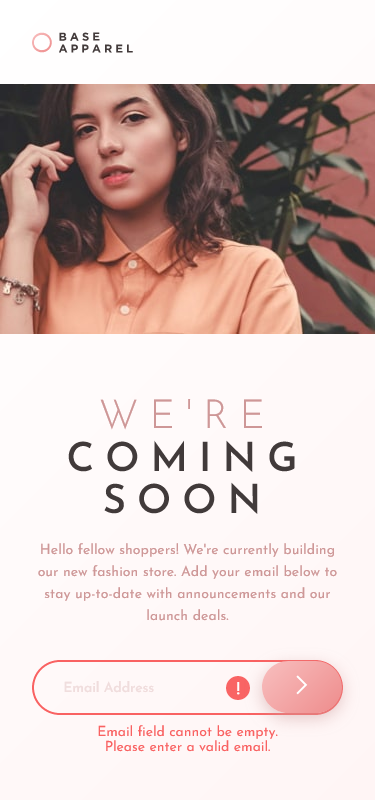
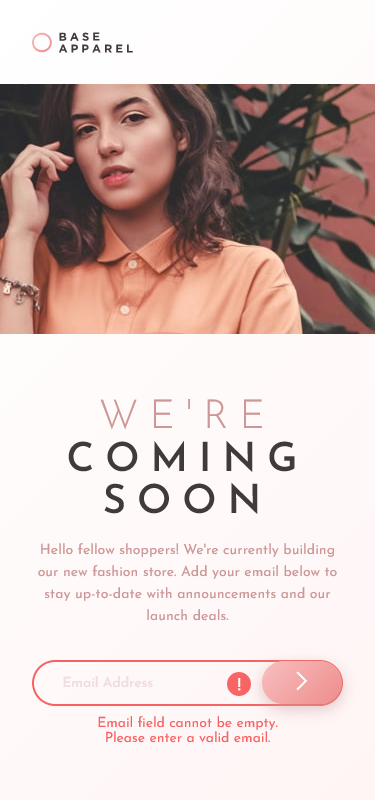
Update Base Apparel landing page

Changed region(s): [[0.088, 0.8125, 0.9387, 0.9375], [0.704, 0.8125, 0.7333, 0.8438]]

diff --git a/baseapparelcomingsoon/stylesheet.css b/baseapparelcomingsoon/stylesheet.css
@@ -254,12 +254,12 @@ h2.content__title > span {
 
 .main__signup {
   height: 66px;
+  position: relative;
 }
 
 .signup {
   border: 1.8px solid var(--clr-red-desatlight);
   border-radius: 2em;
-  position: relative;
 }
 
 .signup,
@@ -293,8 +293,8 @@ h2.content__title > span {
   cursor: pointer;
   position: absolute;
   right: -0.5px;
-  top: -1px;
-  height: 102%;
+  top: 0.5px;
+  height: 46px;
   width: 80px;
   border-radius: 2em;
   background: var(--bkg-btn);
@@ -303,11 +303,16 @@ h2.content__title > span {
 
 .signup__submit:hover {
   background: var(--bkg-btn-hov);
+  /* height: 103%; */
   box-shadow: 0px 10px 20px var(--clr-red-xdesatlight);
 }
 
 .error .signup {
   border: 2px solid var(--clr-red-soft);
+}
+
+.error .signup__input {
+  padding: 10.12px 26.2px 8.3px;
 }
 
 .error .input__error-message {
@@ -437,10 +442,15 @@ h2.content__title > span {
   .signup__input {
     padding: 14.72px 27.2px 12.8px;
   }
+  .error .signup__input {
+    padding: 12.12px 26.2px 8.3px;
+  }
   .input__error-icon {
     width: 158px;
   }
   .signup__submit {
     width: 100px;
+    height: 50px;
+    top: 0px;
   }
 }
